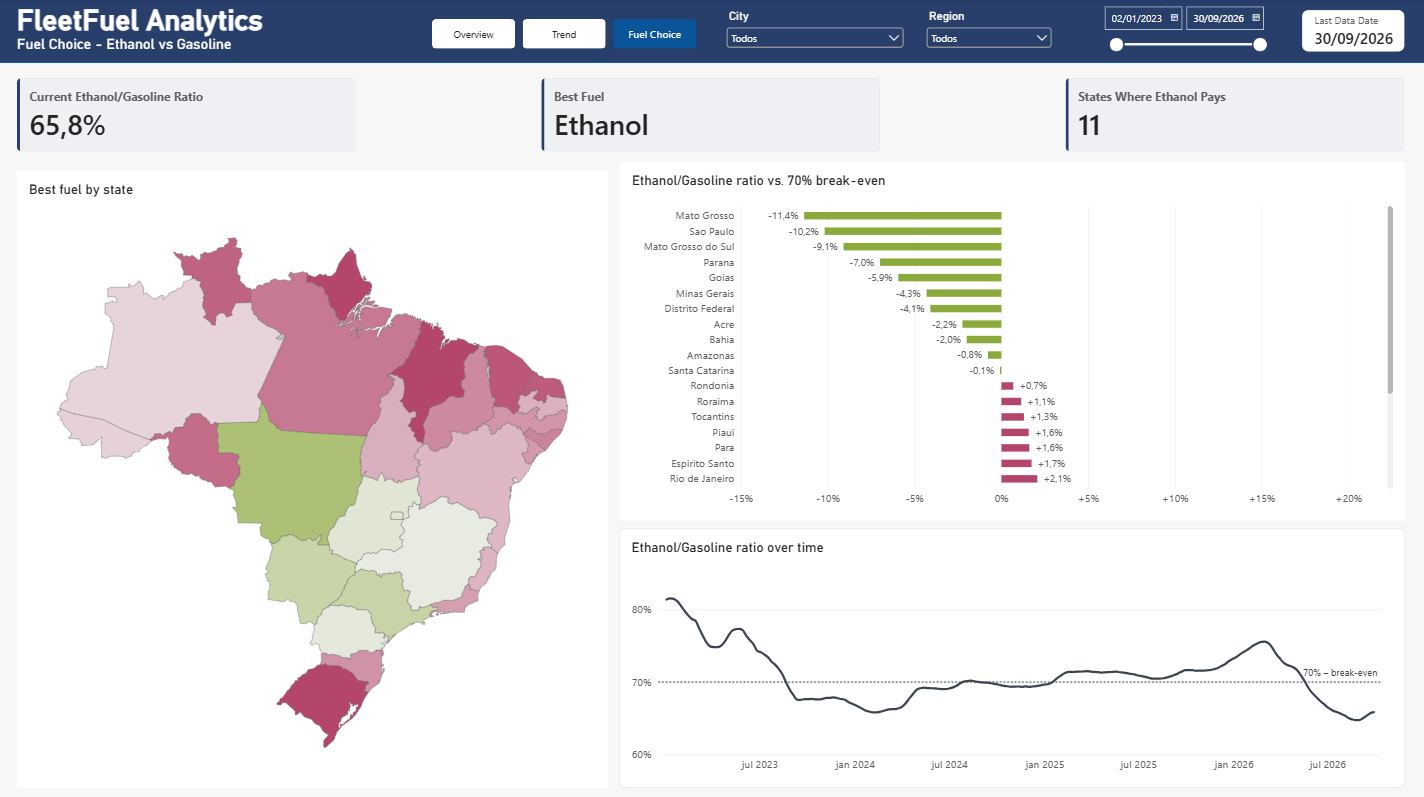
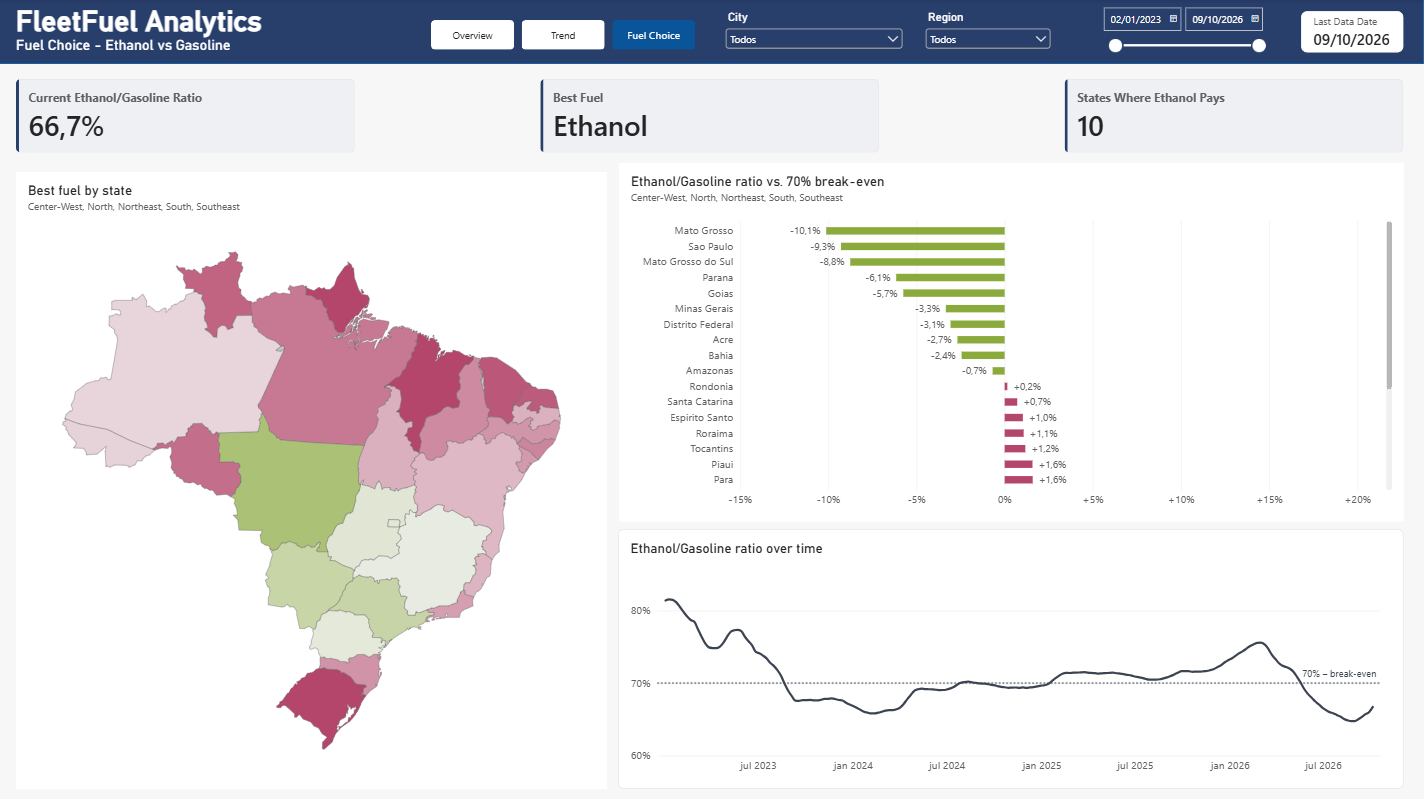
Refresh the report, screenshots and README for data up to 9 Oct 2026
Power BI project saved after the refresh (synced slicers, Selected Regions measure, connection values inline in each query), new report screenshots, the Telegram digest screenshot in the README and key findings matching the published dashboard.

diff --git a/README.md b/README.md
@@ -18,11 +18,11 @@ Fuel is one of the largest costs for any fleet: diesel for trucks, and ethanol o
 
 ## Key findings
 
-From the ANP data up to 9 Oct 2026, over the latest month of surveys (the numbers change with every refresh):
+From the ANP data up to 9 Oct 2026 (the numbers change with every refresh):
 
-- **DIESEL S10** averages **R$ 7.28/l**, up **19.2%** over the last 12 months.
-- **Acre** is the most expensive state for DIESEL S10, **R$ 0.83** above the national average.
-- Nationally, ethanol costs **66.2%** of the gasoline price, so it pays off on average. It is the better choice in **10 states**, with the widest margins in Mato Grosso, São Paulo and Mato Grosso do Sul.
+- **DIESEL S10** averages **R$ 7.37/l**, up **20.6%** over the last 12 months.
+- **Acre** is the most expensive state for DIESEL S10, **R$ 0.72** above the national average.
+- Nationally, ethanol costs **66.7%** of the gasoline price, so it pays off on average. It is the better choice in **10 states**, with the widest margins in Mato Grosso, São Paulo and Mato Grosso do Sul.
 
 ## Architecture
 
@@ -147,25 +147,7 @@ The serverless warehouse may be stopped when n8n calls it, so every query is sub
 
 A digest looks like this:
 
-```text
-⛽ FleetFuel Weekly — week of 05/10/2026
-
-National average (vs last week)
-• Diesel S10  R$7.37  ▼ 0.1%
-• Diesel      R$7.05  ▲ 0.7%
-• Gasoline    R$6.57  ▼ 0.1%
-• Ethanol     R$4.37  ▬ 0.0%
-
-Biggest Diesel S10 increases
-1. PA  +1.3%   2. MS  +1.2%   3. RR  +1.0%
-
-Ethanol vs gasoline
-Ethanol pays in 10 of 27 states (ratio 66.5%)
-Flipped to ethanol this week: none
-Flipped to gasoline this week: none
-
-⚠ Spikes above 5%: none
-```
+<img src="docs/telegram_digest.png" alt="Weekly digest in Telegram" width="420">
 
 The digest compares the latest week with the week before, while the report cards use the latest month, so the two can show different averages for the same product.
 
@@ -200,7 +182,7 @@ The digest compares the latest week with the week before, while the report cards
 | `spike_threshold` | `5` | Week-over-week state price increase (%) flagged as a spike in the digest. |
 | `min_stations` | `10` | Minimum stations surveyed in a state and week for it to enter the digest rankings. |
 
-4. Open `powerbi/Fleet_Fuel_Analytics.pbip` in Power BI Desktop. In *Transform data → Edit parameters*, set `DatabricksHost` (your workspace host, without `https://`) and `HttpPath` (from your SQL Warehouse's *Connection details*), then refresh and sign in when prompted.
+4. Open `powerbi/Fleet_Fuel_Analytics.pbip` in Power BI Desktop. In *Transform data*, open the *Source* step of each query (`dim_date`, `dim_location`, `dim_product`, `fact_price`) and replace the workspace host (without `https://`) and the HTTP path (from your SQL Warehouse's *Connection details*), then refresh and sign in when prompted.
 
 ### Weekly alerts
 
@@ -234,6 +216,7 @@ The digest compares the latest week with the week before, while the report cards
 │   ├── .env.example          # settings read by n8n (copy to .env)
 │   └── workflows/            # n8n workflows exported as JSON, without credentials
 ├── databricks.yml            # bundle definition and variables
+├── docs/                     # Telegram digest screenshot
 ├── images/                   # report screenshots
 ├── resources/
 │   └── anp_fuel_job.yml      # job with all tasks
